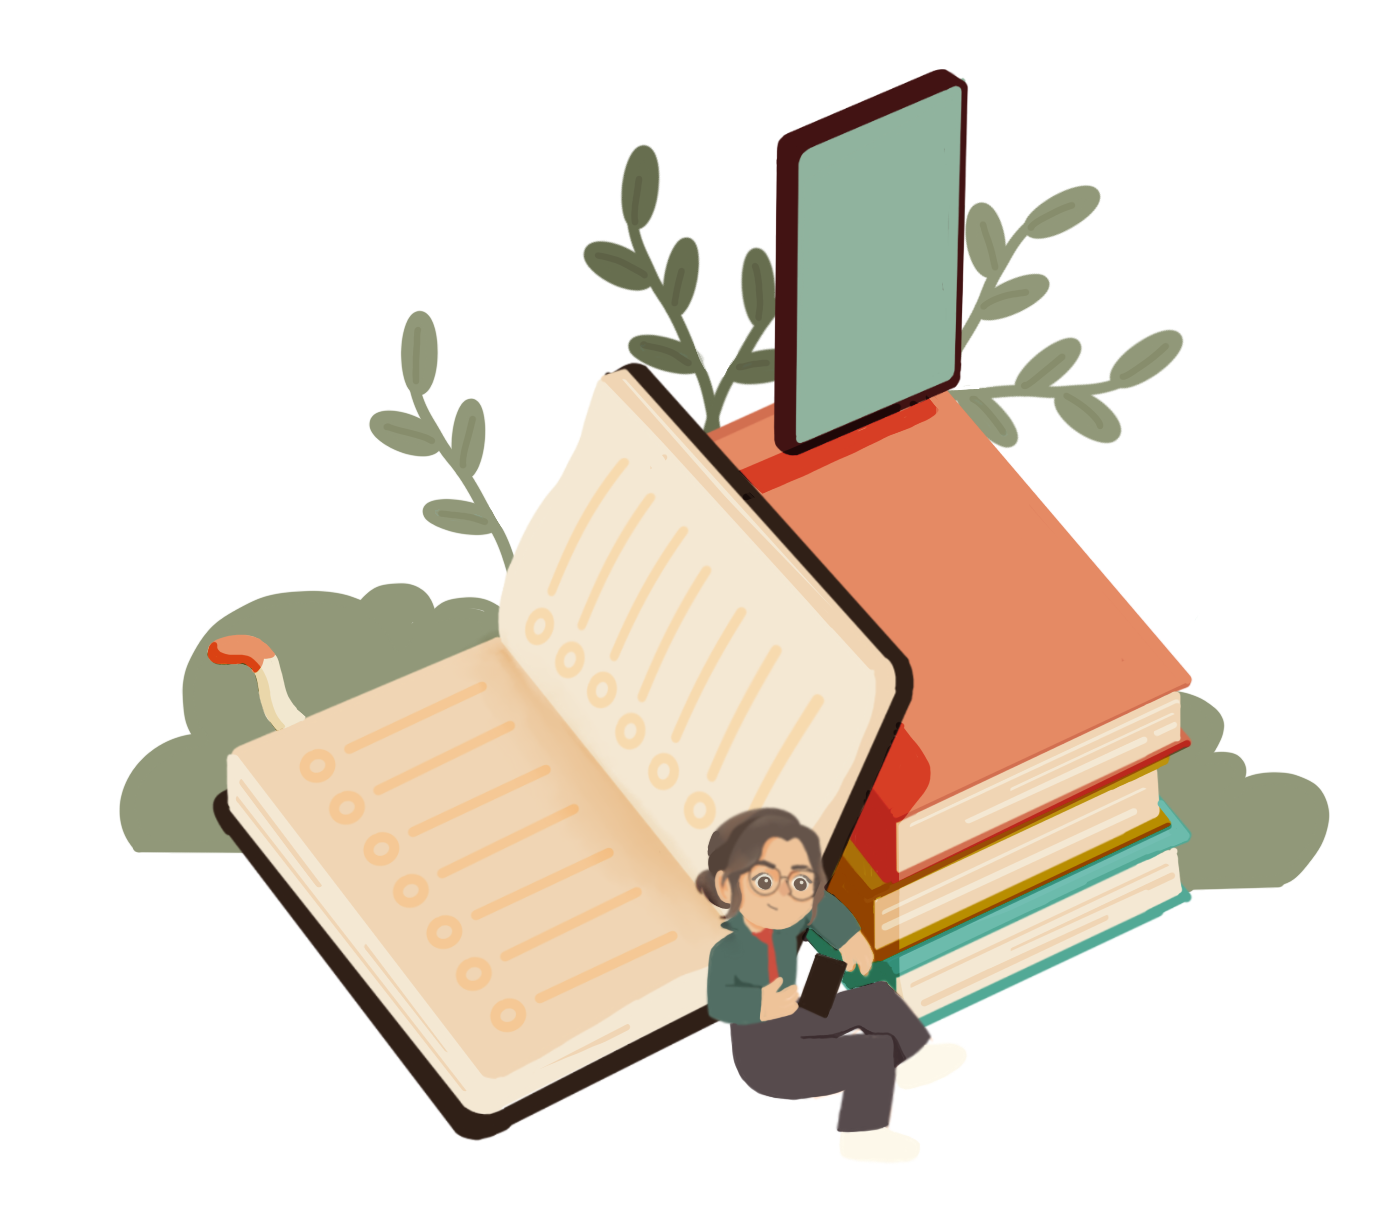
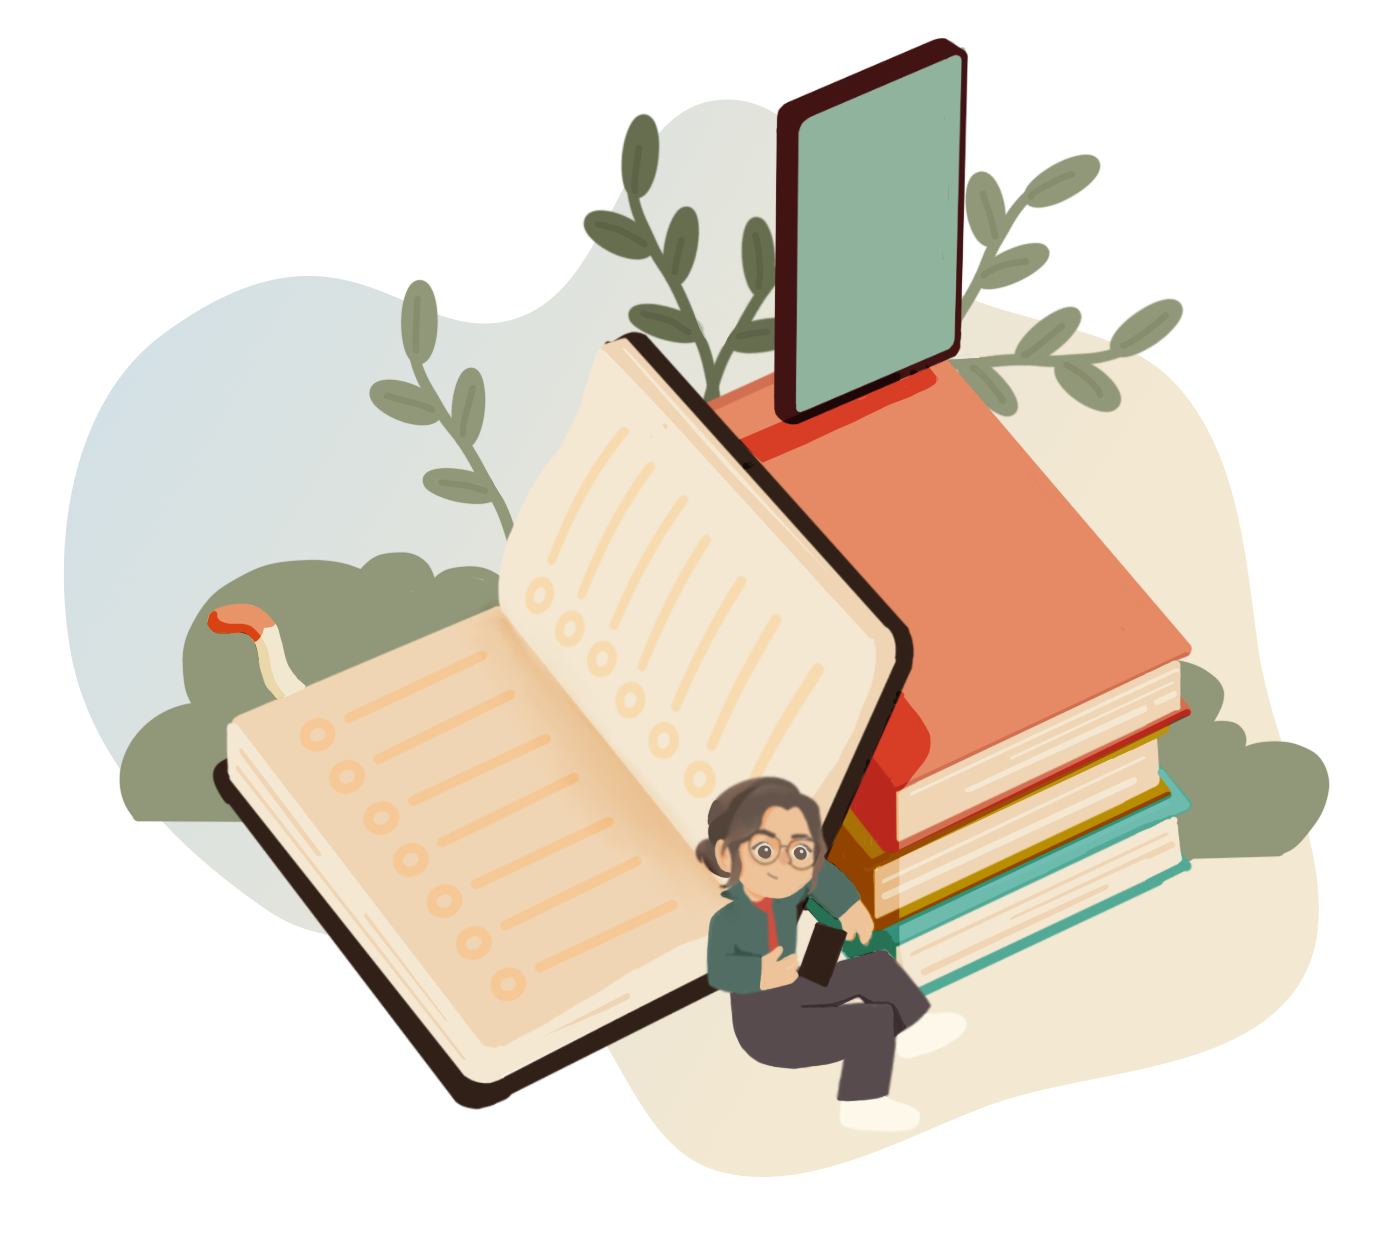
i1 - fixed about us research section, added read more/read less button and function; images folder updated research pic

diff --git a/iteration1/about-us.html b/iteration1/about-us.html
@@ -109,27 +109,29 @@
         </div>
       </div>
     </div>
-
-    <!--
-    <p>Shatz (2018) describes procrastination as "a state of mind where someone acts against their better judgment, due to a lack of sufficient self-control." Moreover, procrastination is considered to be unintentional and irrational. Procrastinators are not lazy. They only need to understand their reasoning behind procrastination in order to manage it better (Tala, 2016).</p>
-    <p>According to Ph.D. Psychologist Linda Sapadin, procrastination is an unresolved approach to avoid conflict and so you are torn between two impulses, which is whether to do it or not to do it. So that uncertainty makes it hard to choose a clear commitment to action.</p>
-    <p>Procrastination is natural, especially if you have an important task to do; you find it difficult but doing so makes you more creative because you're subconsciously collecting ideas and processing how to complete the task. It helps give light on which task is more important because purpose and passion will help you overcome procrastination hurdles; it makes you realize that you are working on the wrong thing. Procrastination, then, becomes your savior to making better decisions. You are ready to decide as you've done your project by the time the deadline arrives.</p>
-     -->
   </div>
 
-  <div class="au-study-section-texts">
+  <div class="au-research-section">
       <h2>Our Research</h2>
-      <p>Introduction. The implementation of community quarantine due to the COVID-19 pandemic has led schools to transition from traditional learning to remote learning, creating a shift in learning behaviors of the students. Because of this, the researchers have conducted a study titled "Procrast-Innate: Behavioral Patterns and Procrastination Tendencies of Arts and Design Students During Online Classes" that aims to understand and describe behavioral patterns of Arts and Design Students that may have influenced their procrastination habits during the pandemic, including the underlying factors that shaped these.
-      </p>
-      <p>Methodology. A two-week data gathering via survey questionnaire and online interview has been done by the researchers from various art schools in Metro Manila to assess each student's point of view about procrastination and how or why they have led to procrastination. To further analyze the data gathered, the researchers will be utilizing cross analysis.</p>
-      <p>Results. Given the online set-up, participants often put off tasks and delay them further when deadlines seem incomprehensible and unrealistic, which proves Lesser's 2018 research and contradicts Naved et al. (2017) research. Most participants have also expressed that lack of social interaction in the pandemic has affected their mental well-being, causing their ability to do tasks properly. However, most participants have also overcome it by coming up with strategies that aid them in completing tasks by rewarding themselves, planning ahead and taking breaks &#8212; supporting the findings of Kauffman & Gregoire (2016).</p>
-      <p>Conclusion. A summarized statistical data and themes in the key findings of the study will express the specific factors that contribute to the reasons why Arts and Design College Students tend to procrastinate.</p>
-      
-      <div class="au-study-section-tags">
-        <h4><span class="p-bold">Keywords:</span>Procrastination, Arts and Design, Pandemic, Online Learning, Procrastinator, Creativity</h4>
-        <h4><span class="p-bold">Paper Type:</span> </h4>
-      </div>
+      <div id="au-research-texts">
+        <p>Introduction. The implementation of community quarantine due to the COVID-19 pandemic has led schools to transition from traditional learning to remote learning, creating a shift in learning behaviors of the students. Because of this, the researchers have conducted a study titled <span>"Procrast-Innate: Behavioral Patterns and Procrastination Tendencies of Arts and Design Students During Online Classes"</span> that aims to understand and describe behavioral patterns of Arts and Design Students that may have influenced their procrastination habits during the pandemic, including the underlying factors that shaped these.
+        </p>
+        <p>Methodology. A two-week data gathering via survey questionnaire and online interview has been done by the researchers from various art schools in Metro Manila to assess each student's point of view about procrastination and how or why they have led to procrastination. To further analyze the data gathered, the researchers will be utilizing cross analysis.</p>
+        <p>Results. Given the online set-up, participants often put off tasks and delay them further when deadlines seem incomprehensible and unrealistic, which proves Lesser's 2018 research and contradicts Naved et al. (2017) research. Most participants have also expressed that lack of social interaction in the pandemic has affected their mental well-being, causing their ability to do tasks properly. However, most participants have also overcome it by coming up with strategies that aid them in completing tasks by rewarding themselves, planning ahead and taking breaks &#8212; supporting the findings of Kauffman & Gregoire (2016).</p>
+        <p>Conclusion. A summarized statistical data and themes in the key findings of the study will express the specific factors that contribute to the reasons why Arts and Design College Students tend to procrastinate.</p>
+        
+        <div class="au-research-section-tags">
+          <h4><span class="p-bold">Keywords:</span>Procrastination, Arts and Design, Pandemic, Online Learning, Procrastinator, Creativity</h4>
+          <h4><span class="p-bold">Paper Type:</span> </h4>
+        </div>
+    </div>
+
+    <a id="research-read-more" href="#au-research-texts" onClick="readMoreLess()">Read more</a>
+				<p id="moreLess" hidden="true">false</p>
+
   </div>
+
+  <img class="au-research-img" src="images/img-abt-research.png">
 
   <!-- study contents end -->
 
@@ -225,6 +227,24 @@
 
     <!--Scrollreveal helper-->
     <script src="./src/helpers/scrollreveal/anijs-helper-scrollreveal.js"></script>
+
+
+    <script>
+      function readMoreLess() {
+          var more = document.getElementById('moreLess').innerHTML;
+          if (more == "false") {
+              document.getElementById('au-research-texts').style.height = "auto";
+              document.getElementById('au-research-texts').style.overflow = "visible";
+              document.getElementById('research-read-more').innerHTML = "Read less";
+              document.getElementById('moreLess').innerHTML = "true";
+          } else {
+              document.getElementById('au-research-texts').style.height = "215px";
+              document.getElementById('au-research-texts').style.overflow = "hidden ";
+              document.getElementById('research-read-more').innerHTML = "Read more";
+              document.getElementById('moreLess').innerHTML = "false";
+          }
+      }
+  </script>
 
 </body>
 

diff --git a/iteration1/css/style.css b/iteration1/css/style.css
@@ -1092,60 +1092,67 @@ a:visited {
 }
 
 
-.au-study-section-texts {
-  color: var(--dark-gray);
-
+.au-research-section {
   display: flex;
   flex-direction: column;
   justify-content: center;
   align-items: center;
 
-  width: 940px;
+  width: 1160px;
+  border-radius: 16px;
 
-  margin: 75px auto 100px auto;
+  margin: 0 auto 100px auto;
+
+  background: linear-gradient(#F3E8D1, #f3e8d100);
 }
 
-.au-study-section-texts h2 {
+.au-research-section h2 {
   font-family: 'Dongle', sans-serif;
   font-size: 56px;
   line-height: 32px;
-  
-  margin: 0 0 10px 0;
-
   color: var(--brown);
+  
+  margin: 75px 0 10px 0;
 }
 
-.au-study-section-texts p {
+#au-research-texts{
+  width: 940px;
+  height: 215px;
+
+  overflow: hidden;
+}
+
+.au-research-section p {
   font-family: 'Open Sans', sans-serif;
   font-size: 16px;
   font-weight: 400;
   text-align: justify;
   text-indent: 75px;
-
-  margin: 30px 0 0 0;
-
   line-height: 24px;
+  color: var(--brown);
 
-  display: flex;
-  justify-content: center;
-  align-items: center;
-  flex-wrap: wrap;
+  margin: 30px 0 45px 0;
 }
 
-.au-study-section-tags{
-  margin: 30px auto 0 0;
-  color: #1e202c8f;
+.au-research-section span{
+  font-weight: 700;
 }
 
-.au-study-section-texts h4 {
+.au-research-section-tags{
+  margin: 30px auto 0 auto;
+  color: #5f4d429c;
+}
+
+.au-research-section h4 {
   font-family: 'Open Sans', sans-serif;
   font-size: 14px;
   font-weight: 400;
   text-align: left;
-
-  margin: 0 auto 0 0;
-
   line-height: 24px;
+
+  width: 940px;
+
+  margin: 0 auto;
 
   display: flex;
   justify-content: flex-start;
@@ -1156,6 +1163,40 @@ a:visited {
 .p-bold{
   font-weight: 700;
   padding-right:10px;
+}
+
+#research-read-more{
+  width: 176px;
+  height: 40px;
+  background-color: var(--cream);
+  border-radius: 16px;
+
+  font-family: 'Open Sans', sans-serif;
+  color: var(--orange);
+
+  font-size: 16px;
+  font-weight: 700;
+
+  text-align: center;
+
+  display: flex;
+  justify-content: center;
+  align-items: center;
+
+  margin-top: 75px;
+}
+
+#research-read-more:hover{
+  transform: translateY(-3px);
+  filter: drop-shadow(0 3px 3px #5f4d4239);
+}
+
+.au-research-img{
+  width: 1394px;
+  height: 1230px;
+
+  display: flex;
+  margin: auto;
 }
 
 
@@ -1198,7 +1239,7 @@ a:visited {
 
 .au-pangcat-section-texts h2 {
   font-family: 'Dongle', sans-serif;
-  font-size: 60px;
+  font-size: 64px;
   font-weight: 700;
 
 
